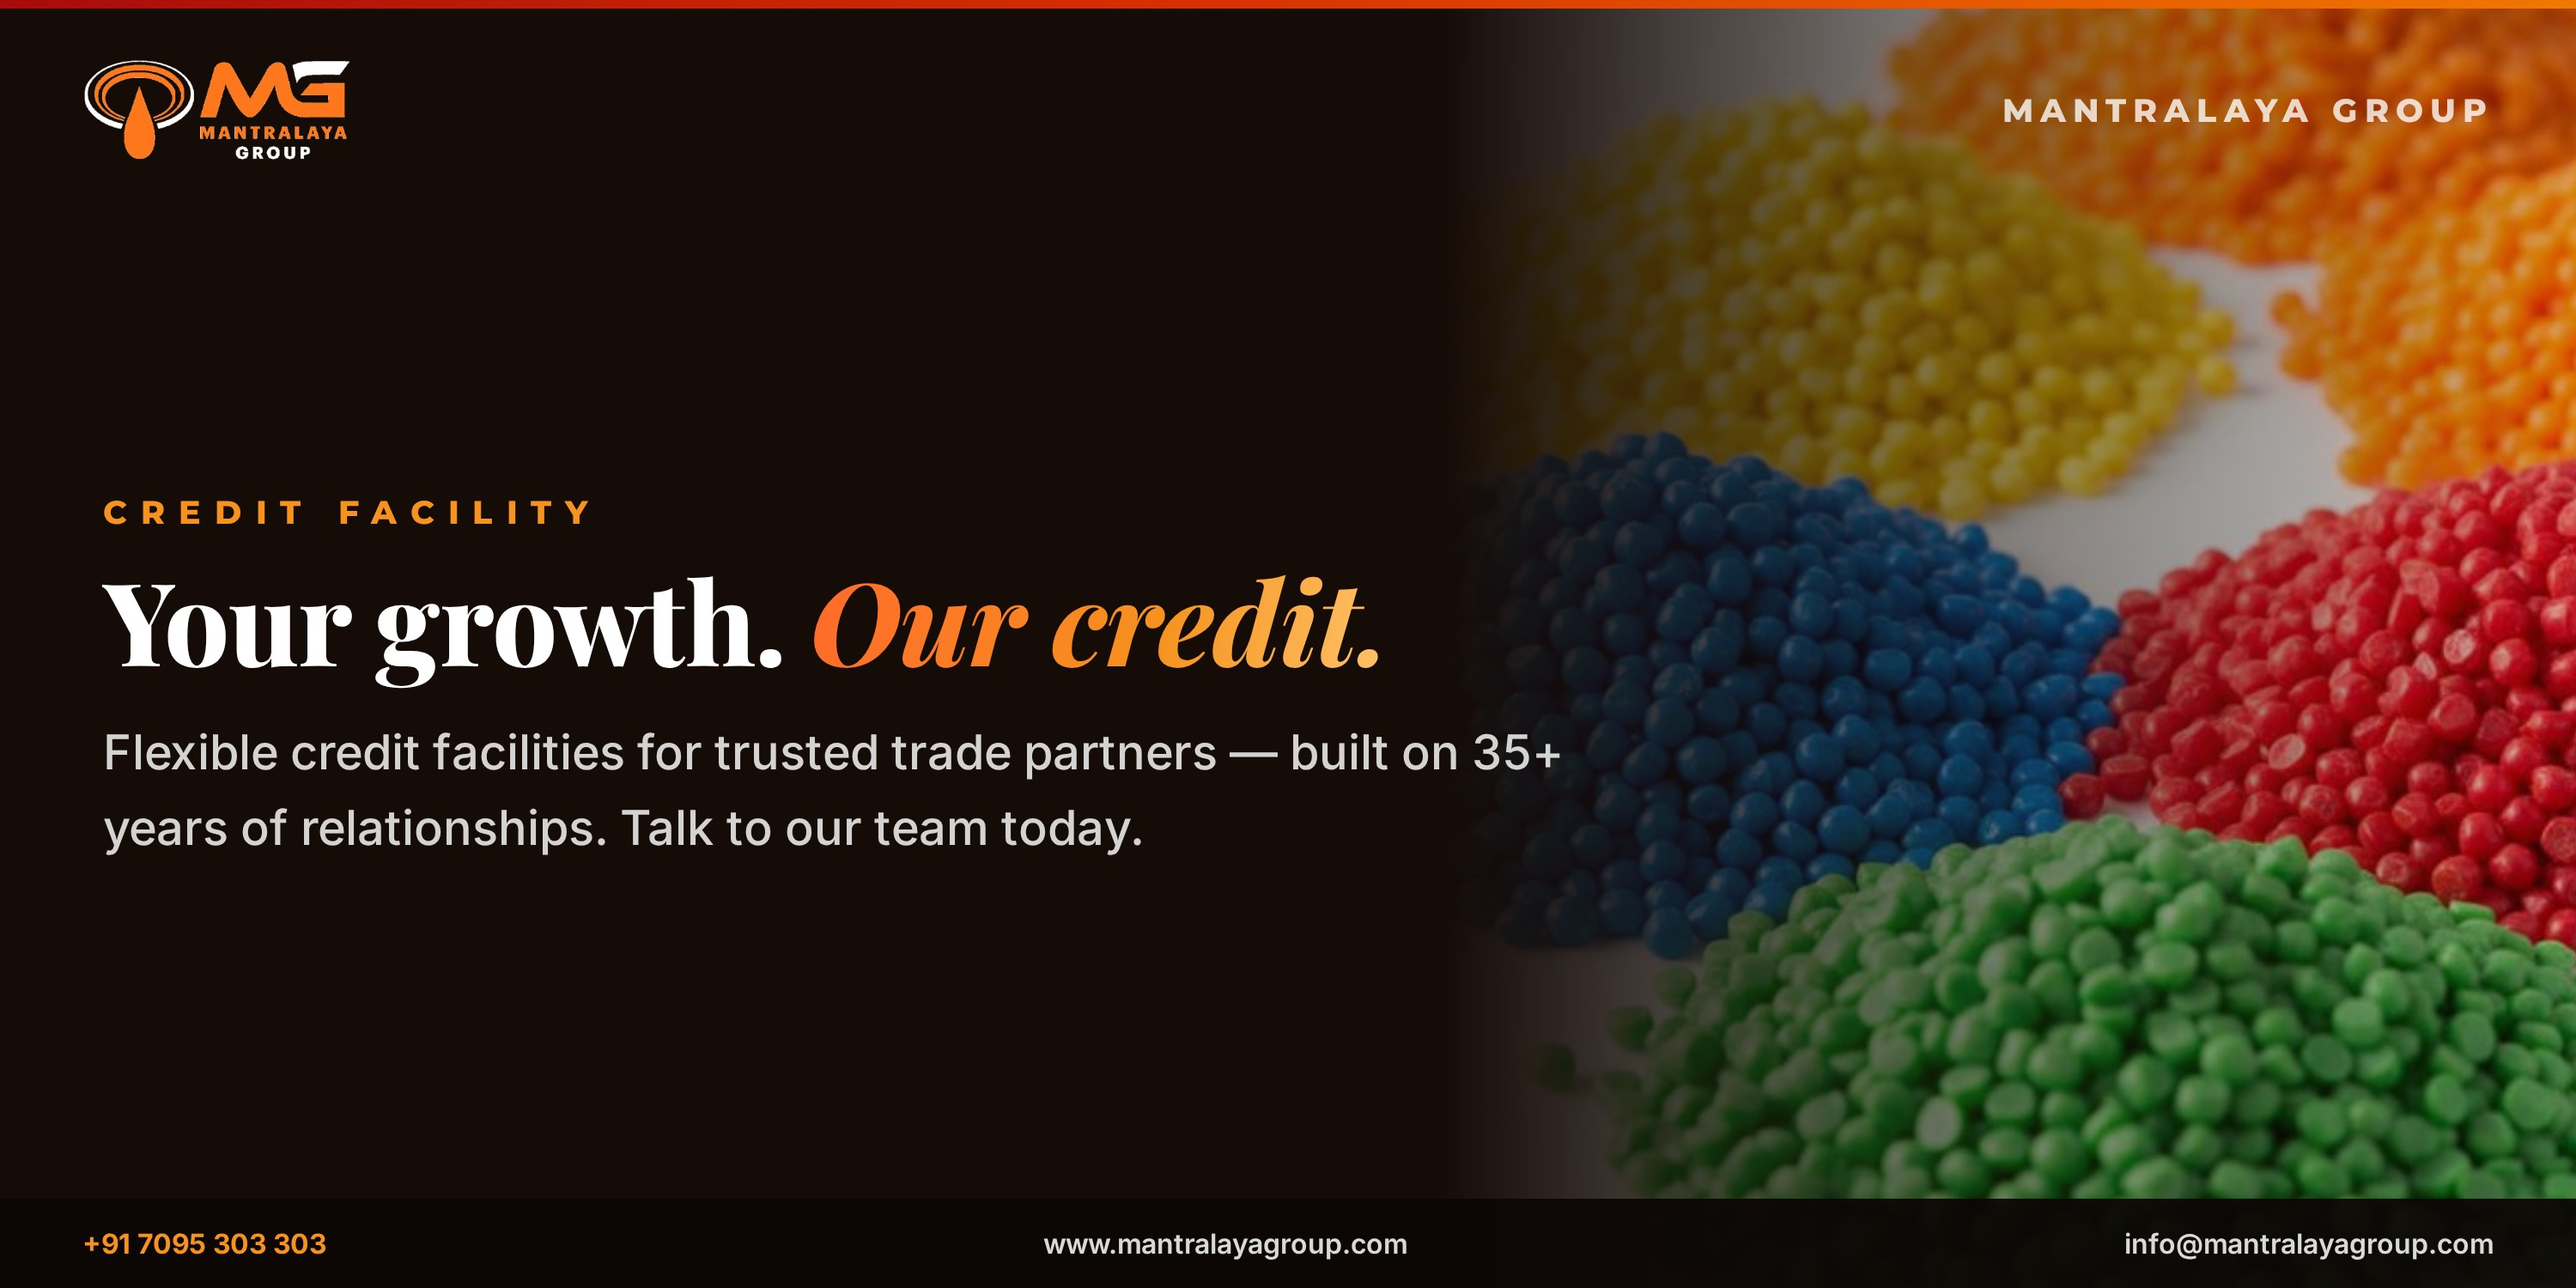
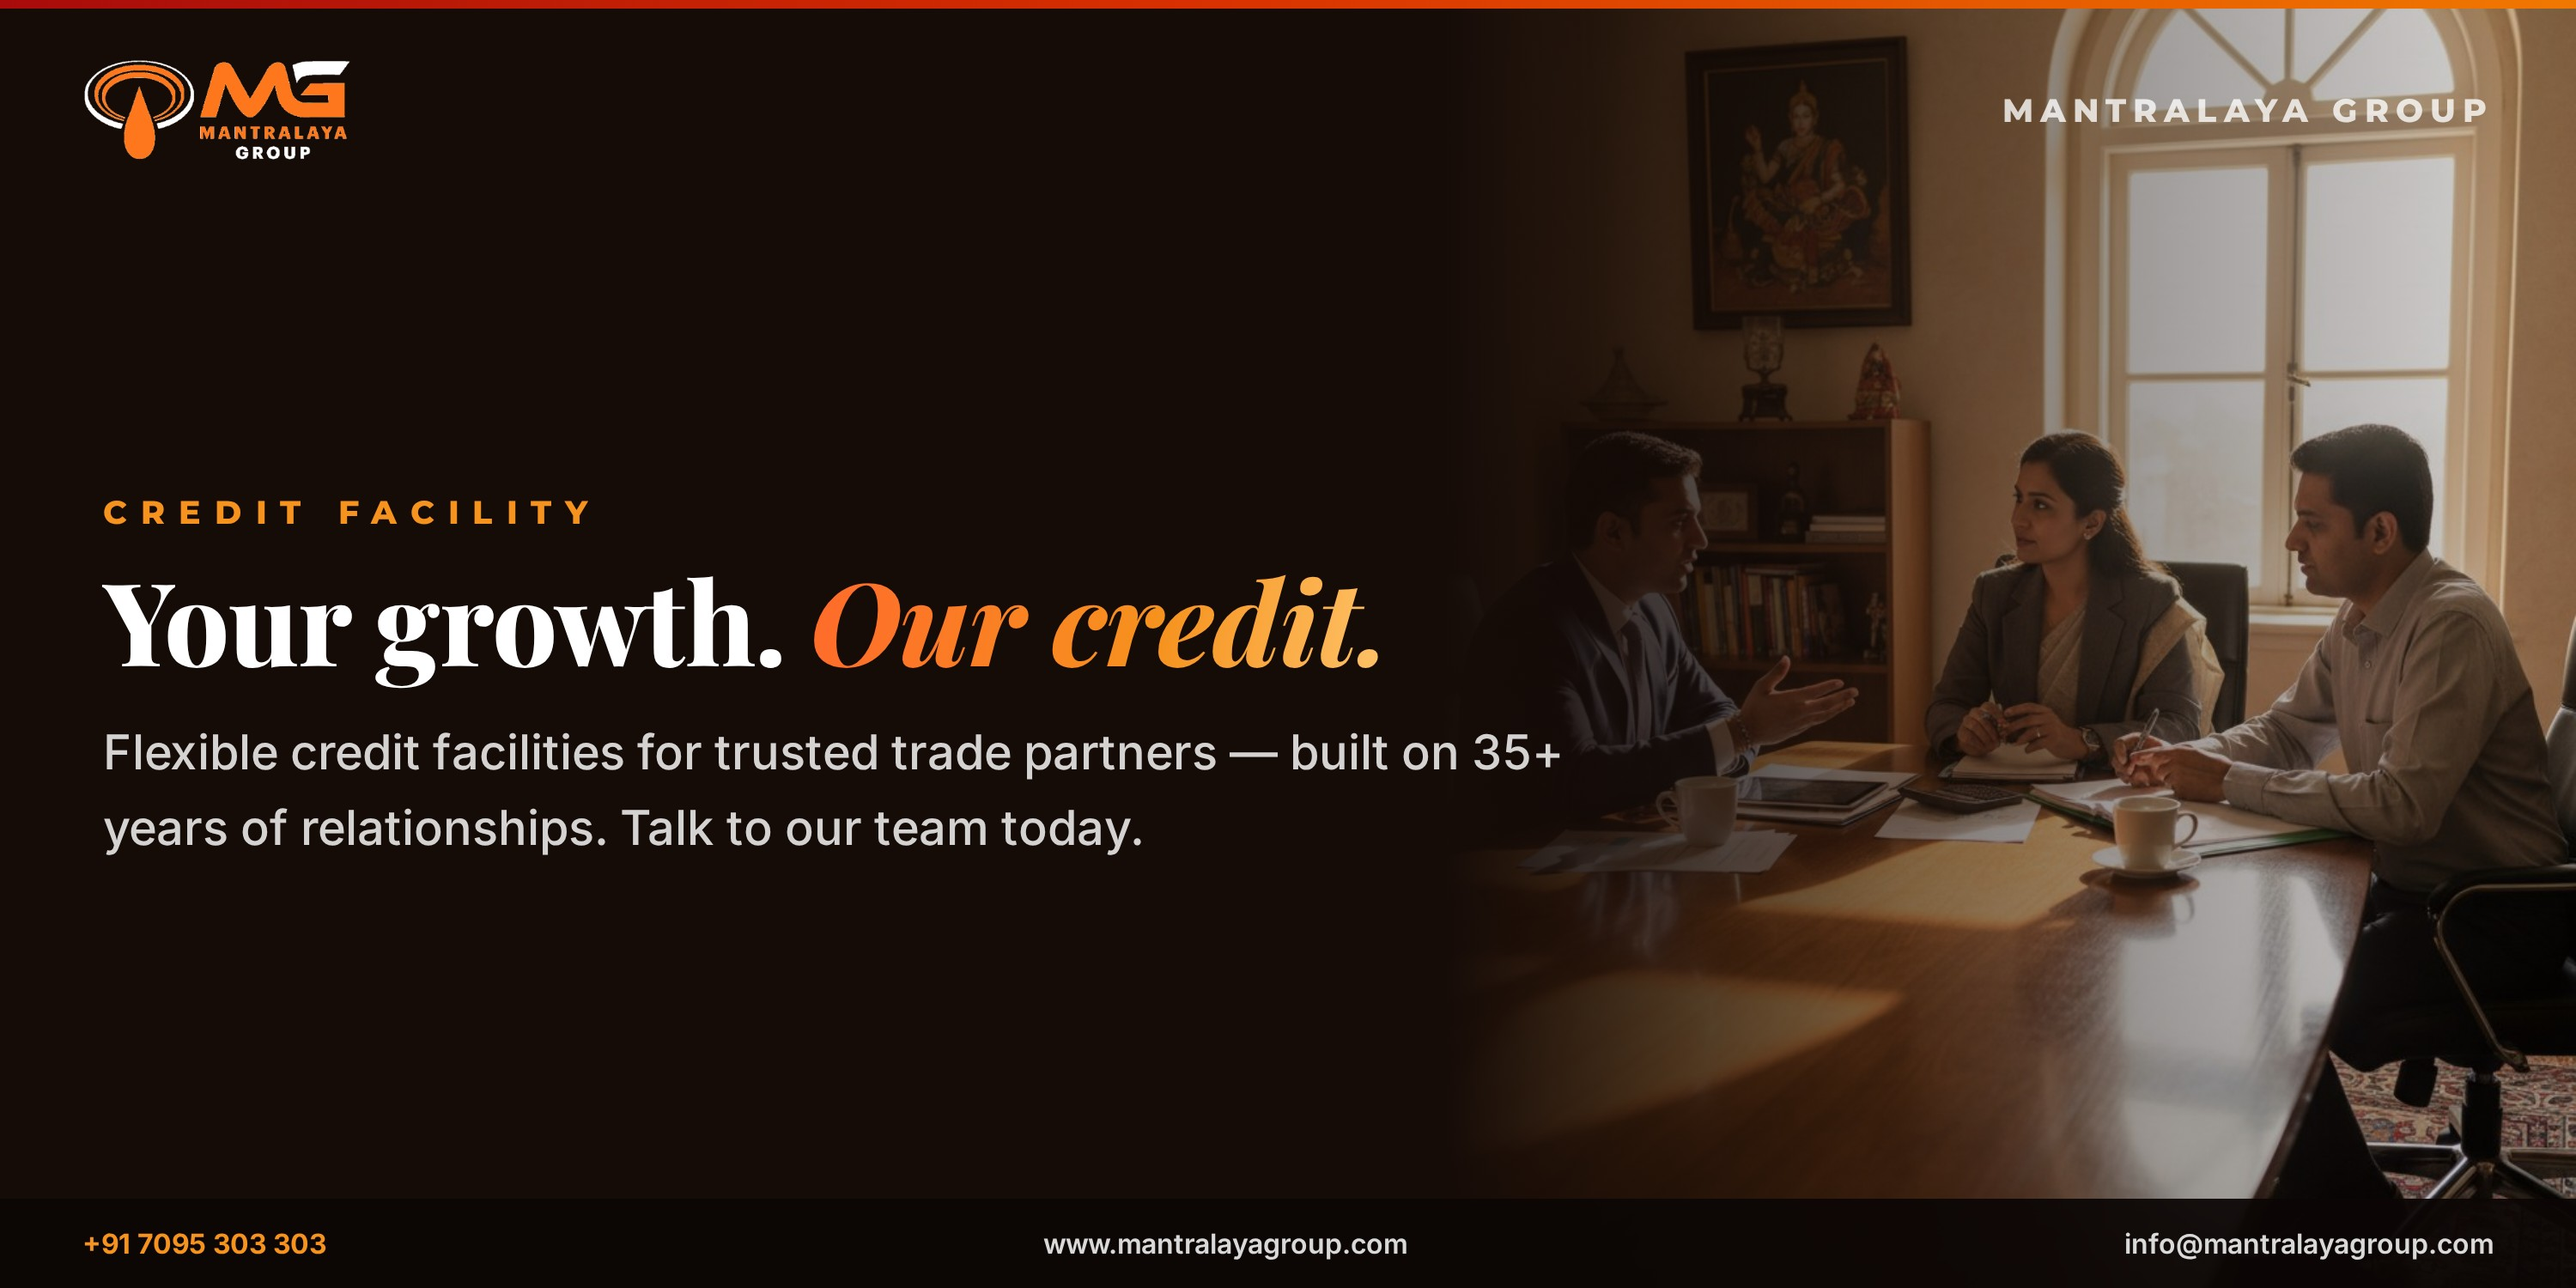
Credit facility posters: 2 variations at 2000x1000 with table-discussion background

diff --git a/posters/src/poster-15-credit-2--light.html b/posters/src/poster-15-credit-2--light.html
@@ -1,6 +1,6 @@
 <!DOCTYPE html><html><head><meta charset="UTF-8"><link href="https://fonts.googleapis.com/css2?family=Montserrat:wght@600;700;800;900&family=Inter:wght@400;500;600;700&family=Playfair+Display:ital,wght@0,700;0,800;1,700;1,800&display=swap" rel="stylesheet"><style>
 *{margin:0;padding:0;box-sizing:border-box}
-body{width:900px;height:750px;overflow:hidden;position:relative;font-family:'Montserrat',sans-serif;background:#FBF4EB;color:#10141B;display:flex;flex-direction:column}
+body{width:1500px;height:750px;overflow:hidden;position:relative;font-family:'Montserrat',sans-serif;background:#FBF4EB;color:#10141B;display:flex;flex-direction:column}
 .hdr{display:flex;align-items:center;justify-content:space-between;padding:34px 48px 0;position:relative;z-index:5}
 .hdr img{height:60px}
 .hdr .co{font-size:19px;font-weight:800;letter-spacing:4px;color:#5A6472}
@@ -14,10 +14,14 @@ body{width:900px;height:750px;overflow:hidden;position:relative;font-family:'Mon
 .bgimg::after{content:'';position:absolute;inset:0;background:linear-gradient(100deg, rgba(251,244,235,0.97) 0%, rgba(251,244,235,0.94) 45%, rgba(251,244,235,0.72) 100%)}
 .z{position:relative;z-index:4}
 </style></head><body><style>
-.wrap{flex:1;display:flex;flex-direction:column;justify-content:center;padding:20px 60px;position:relative;z-index:4;max-width:100%}
-.cap2{font-size:52px;margin-top:14px}
+.bg{position:absolute;inset:0}
+.bg img{width:100%;height:100%;object-fit:cover;object-position:center 30%}
+.bg::after{content:'';position:absolute;inset:0;background:linear-gradient(100deg, rgba(251,244,235,0.95) 0%, rgba(251,244,235,0.78) 42%, rgba(251,244,235,0.25) 100%), linear-gradient(0deg, rgba(251,244,235,0.6) 0%, rgba(0,0,0,0) 40%)}
+.wrap{flex:1;display:flex;flex-direction:column;justify-content:flex-end;padding:0 60px 40px;position:relative;z-index:4;max-width:62%}
+.cap2{font-size:62px;margin-top:12px;color:#10141B}
 .cap2 em{background:linear-gradient(100deg,#A80B0B,#D83000 45%,#F07800);-webkit-background-clip:text;background-clip:text;color:transparent;font-style:italic}
-.sub{margin-top:18px;font-family:'Inter',sans-serif;font-size:21px;font-weight:500;color:#3A4250;line-height:1.6}
-.extra{margin-top:26px}
-</style><div class="rule"></div><div class="hdr"><img src="../../mg-logo.png"><div class="co">MANTRALAYA GROUP</div></div>
-<div class="wrap"><div class="label">CREDIT FACILITY</div><div class="cap cap2">Terms that move <em>with your business.</em></div><div class="sub">Credit cycles tailored to your trade. Ask us how.</div></div><div class="ftr"><span><b>+91 7095 303 303</b></span><span>www.mantralayagroup.com</span><span>info@mantralayagroup.com</span></div></body></html>
+.chips{margin-top:22px;display:flex;gap:14px;flex-wrap:wrap}
+</style><div class="bg"><img src="../../products/credit-discussion.jpg"></div><div class="rule"></div><div class="hdr"><img src="../../mg-logo.png"><div class="co">MANTRALAYA GROUP</div></div>
+<div class="wrap"><div class="label">CREDIT FACILITY</div>
+<div class="cap cap2">Terms that move<br><em>with your business.</em></div>
+<div class="chips"><span style="background:#fff;border:1px solid rgba(16,20,27,0.1);box-shadow:0 6px 16px rgba(0,0,0,0.07);color:#10141B;border-radius:100px;padding:12px 26px;font-size:18px;font-weight:700;">Flexible credit cycles</span><span style="background:#fff;border:1px solid rgba(16,20,27,0.1);box-shadow:0 6px 16px rgba(0,0,0,0.07);color:#10141B;border-radius:100px;padding:12px 26px;font-size:18px;font-weight:700;">Trusted trade partners</span><span style="background:#fff;border:1px solid rgba(16,20,27,0.1);box-shadow:0 6px 16px rgba(0,0,0,0.07);color:#10141B;border-radius:100px;padding:12px 26px;font-size:18px;font-weight:700;">35+ years of relationships</span></div></div><div class="ftr"><span><b>+91 7095 303 303</b></span><span>www.mantralayagroup.com</span><span>info@mantralayagroup.com</span></div></body></html>

diff --git a/posters/src/poster-15-credit-2--dark.html b/posters/src/poster-15-credit-2--dark.html
@@ -1,6 +1,6 @@
 <!DOCTYPE html><html><head><meta charset="UTF-8"><link href="https://fonts.googleapis.com/css2?family=Montserrat:wght@600;700;800;900&family=Inter:wght@400;500;600;700&family=Playfair+Display:ital,wght@0,700;0,800;1,700;1,800&display=swap" rel="stylesheet"><style>
 *{margin:0;padding:0;box-sizing:border-box}
-body{width:900px;height:750px;overflow:hidden;position:relative;font-family:'Montserrat',sans-serif;background:#150B07;color:#fff;display:flex;flex-direction:column}
+body{width:1500px;height:750px;overflow:hidden;position:relative;font-family:'Montserrat',sans-serif;background:#150B07;color:#fff;display:flex;flex-direction:column}
 .hdr{display:flex;align-items:center;justify-content:space-between;padding:34px 48px 0;position:relative;z-index:5}
 .hdr img{height:60px}
 .hdr .co{font-size:19px;font-weight:800;letter-spacing:4px;color:rgba(255,255,255,0.78)}
@@ -14,10 +14,14 @@ body{width:900px;height:750px;overflow:hidden;position:relative;font-family:'Mon
 .bgimg::after{content:'';position:absolute;inset:0;background:linear-gradient(100deg, rgba(18,9,6,0.97) 0%, rgba(18,9,6,0.93) 45%, rgba(18,9,6,0.72) 100%)}
 .z{position:relative;z-index:4}
 </style></head><body><style>
-.wrap{flex:1;display:flex;flex-direction:column;justify-content:center;padding:20px 60px;position:relative;z-index:4;max-width:100%}
-.cap2{font-size:52px;margin-top:14px}
+.bg{position:absolute;inset:0}
+.bg img{width:100%;height:100%;object-fit:cover;object-position:center 30%}
+.bg::after{content:'';position:absolute;inset:0;background:linear-gradient(100deg, rgba(13,8,6,0.93) 0%, rgba(13,8,6,0.72) 42%, rgba(13,8,6,0.25) 100%), linear-gradient(0deg, rgba(13,8,6,0.55) 0%, rgba(0,0,0,0) 40%)}
+.wrap{flex:1;display:flex;flex-direction:column;justify-content:flex-end;padding:0 60px 40px;position:relative;z-index:4;max-width:62%}
+.cap2{font-size:62px;margin-top:12px;color:#fff}
 .cap2 em{background:linear-gradient(100deg,#FF6A2B,#F6921E 60%,#FFC46B);-webkit-background-clip:text;background-clip:text;color:transparent;font-style:italic}
-.sub{margin-top:18px;font-family:'Inter',sans-serif;font-size:21px;font-weight:500;color:rgba(255,255,255,0.82);line-height:1.6}
-.extra{margin-top:26px}
-</style><div class="rule"></div><div class="hdr"><img src="../../mg-logo-dark.png"><div class="co">MANTRALAYA GROUP</div></div>
-<div class="wrap"><div class="label">CREDIT FACILITY</div><div class="cap cap2">Terms that move <em>with your business.</em></div><div class="sub">Credit cycles tailored to your trade. Ask us how.</div></div><div class="ftr"><span><b>+91 7095 303 303</b></span><span>www.mantralayagroup.com</span><span>info@mantralayagroup.com</span></div></body></html>
+.chips{margin-top:22px;display:flex;gap:14px;flex-wrap:wrap}
+</style><div class="bg"><img src="../../products/credit-discussion.jpg"></div><div class="rule"></div><div class="hdr"><img src="../../mg-logo-dark.png"><div class="co">MANTRALAYA GROUP</div></div>
+<div class="wrap"><div class="label">CREDIT FACILITY</div>
+<div class="cap cap2">Terms that move<br><em>with your business.</em></div>
+<div class="chips"><span style="background:rgba(255,255,255,0.1);border:1px solid rgba(240,120,0,0.5);color:#fff;border-radius:100px;padding:12px 26px;font-size:18px;font-weight:700;">Flexible credit cycles</span><span style="background:rgba(255,255,255,0.1);border:1px solid rgba(240,120,0,0.5);color:#fff;border-radius:100px;padding:12px 26px;font-size:18px;font-weight:700;">Trusted trade partners</span><span style="background:rgba(255,255,255,0.1);border:1px solid rgba(240,120,0,0.5);color:#fff;border-radius:100px;padding:12px 26px;font-size:18px;font-weight:700;">35+ years of relationships</span></div></div><div class="ftr"><span><b>+91 7095 303 303</b></span><span>www.mantralayagroup.com</span><span>info@mantralayagroup.com</span></div></body></html>

diff --git a/posters/src/poster-13-credit-1--dark.html b/posters/src/poster-13-credit-1--dark.html
@@ -20,6 +20,6 @@ body{width:1500px;height:750px;overflow:hidden;position:relative;font-family:'Mo
 .sub{margin-top:18px;font-family:'Inter',sans-serif;font-size:28px;font-weight:500;color:rgba(255,255,255,0.82);line-height:1.6}
 .extra{margin-top:26px}
 </style><div style="position:absolute;top:0;right:0;bottom:0;width:44%;z-index:1;">
-<img src="../../products/coloured-granules.jpg" style="width:100%;height:100%;object-fit:cover;">
+<img src="../../products/credit-discussion.jpg" style="width:100%;height:100%;object-fit:cover;">
 <div style="position:absolute;inset:0;background:linear-gradient(90deg,#150B07 0%,rgba(21,11,7,0.55) 40%,rgba(21,11,7,0.15) 100%);"></div></div><div class="rule"></div><div class="hdr"><img src="../../mg-logo-dark.png"><div class="co">MANTRALAYA GROUP</div></div>
 <div class="wrap"><div class="label">CREDIT FACILITY</div><div class="cap cap2">Your growth. <em>Our credit.</em></div><div class="sub">Flexible credit facilities for trusted trade partners — built on 35+ years of relationships. Talk to our team today.</div></div><div class="ftr"><span><b>+91 7095 303 303</b></span><span>www.mantralayagroup.com</span><span>info@mantralayagroup.com</span></div></body></html>

diff --git a/posters/src/poster-13-credit-1--light.html b/posters/src/poster-13-credit-1--light.html
@@ -20,6 +20,6 @@ body{width:1500px;height:750px;overflow:hidden;position:relative;font-family:'Mo
 .sub{margin-top:18px;font-family:'Inter',sans-serif;font-size:28px;font-weight:500;color:#3A4250;line-height:1.6}
 .extra{margin-top:26px}
 </style><div style="position:absolute;top:0;right:0;bottom:0;width:44%;z-index:1;">
-<img src="../../products/coloured-granules.jpg" style="width:100%;height:100%;object-fit:cover;">
+<img src="../../products/credit-discussion.jpg" style="width:100%;height:100%;object-fit:cover;">
 <div style="position:absolute;inset:0;background:linear-gradient(90deg,#FBF4EB 0%,rgba(251,244,235,0.5) 40%,rgba(251,244,235,0.1) 100%);"></div></div><div class="rule"></div><div class="hdr"><img src="../../mg-logo.png"><div class="co">MANTRALAYA GROUP</div></div>
 <div class="wrap"><div class="label">CREDIT FACILITY</div><div class="cap cap2">Your growth. <em>Our credit.</em></div><div class="sub">Flexible credit facilities for trusted trade partners — built on 35+ years of relationships. Talk to our team today.</div></div><div class="ftr"><span><b>+91 7095 303 303</b></span><span>www.mantralayagroup.com</span><span>info@mantralayagroup.com</span></div></body></html>

diff --git a/posters/gen2.py b/posters/gen2.py
@@ -617,6 +617,28 @@ def rawmat_c(w,h,dark,label,hero,apps):
 <div class="cap cap2">One granule.<br><em>A thousand products.</em></div>
 <div class="grid">{tiles}</div></div>{FOOT}"""
 
+def credit2(w,h,dark):
+    """Credit variant 2 — full-bleed discussion photo, text lower-left."""
+    gt = GT_W if dark else GT_D
+    ov = ('linear-gradient(100deg, rgba(13,8,6,0.93) 0%, rgba(13,8,6,0.72) 42%, rgba(13,8,6,0.25) 100%), linear-gradient(0deg, rgba(13,8,6,0.55) 0%, rgba(0,0,0,0) 40%)' if dark
+        else 'linear-gradient(100deg, rgba(251,244,235,0.95) 0%, rgba(251,244,235,0.78) 42%, rgba(251,244,235,0.25) 100%), linear-gradient(0deg, rgba(251,244,235,0.6) 0%, rgba(0,0,0,0) 40%)')
+    fg = '#fff' if dark else '#10141B'
+    chip = ('background:rgba(255,255,255,0.1);border:1px solid rgba(240,120,0,0.5);color:#fff' if dark
+        else 'background:#fff;border:1px solid rgba(16,20,27,0.1);box-shadow:0 6px 16px rgba(0,0,0,0.07);color:#10141B')
+    chips=''.join(f'<span style="{chip};border-radius:100px;padding:12px 26px;font-size:18px;font-weight:700;">{c}</span>' for c in ['Flexible credit cycles','Trusted trade partners','35+ years of relationships'])
+    return base(w,h,dark)+f"""<style>
+.bg{{position:absolute;inset:0}}
+.bg img{{width:100%;height:100%;object-fit:cover;object-position:center 30%}}
+.bg::after{{content:'';position:absolute;inset:0;background:{ov}}}
+.wrap{{flex:1;display:flex;flex-direction:column;justify-content:flex-end;padding:0 60px 40px;position:relative;z-index:4;max-width:62%}}
+.cap2{{font-size:62px;margin-top:12px;color:{fg}}}
+.cap2 em{{{gt}font-style:italic}}
+.chips{{margin-top:22px;display:flex;gap:14px;flex-wrap:wrap}}
+</style><div class="bg"><img src="{P('credit-discussion')}"></div>{hdr(dark)}
+<div class="wrap"><div class="label">CREDIT FACILITY</div>
+<div class="cap cap2">Terms that move<br><em>with your business.</em></div>
+<div class="chips">{chips}</div></div>{FOOT}"""
+
 def build(dark):
     v = {}
     em = lambda t: f"<em>{t}</em>"
@@ -646,9 +668,8 @@ def build(dark):
     v['poster-11-pands'] = (1000,1500, pands2(1000,1500,dark))
     v['poster-12-totem'] = (600,2133, totem(600,2133,dark))
     v['poster-13-credit-1'] = (1500,750, message(1500,750,dark,'CREDIT FACILITY',f"Your growth. {em('Our credit.')}",
-      'Flexible credit facilities for trusted trade partners — built on 35+ years of relationships. Talk to our team today.',sidephoto='coloured-granules'))
-    v['poster-15-credit-2'] = (900,750, message(900,750,dark,'CREDIT FACILITY',f"Terms that move {em('with your business.')}",
-      'Credit cycles tailored to your trade. Ask us how.',capsize=52))
+      'Flexible credit facilities for trusted trade partners — built on 35+ years of relationships. Talk to our team today.',sidephoto='credit-discussion'))
+    v['poster-15-credit-2'] = (1500,750, credit2(1500,750,dark))
     v['poster-17-pands-qr'] = (900,750, message(900,750,dark,'PRODUCTS &amp; STORES',f"Take the store {em('with you.')}",
       'Scan to browse the complete catalogue at productsandstores.com.',
       extra='<div class="extra"><img src="../qr-ps.png" style="width:190px;height:190px;border-radius:14px;border:5px solid #D83000;"></div>',capsize=52))
